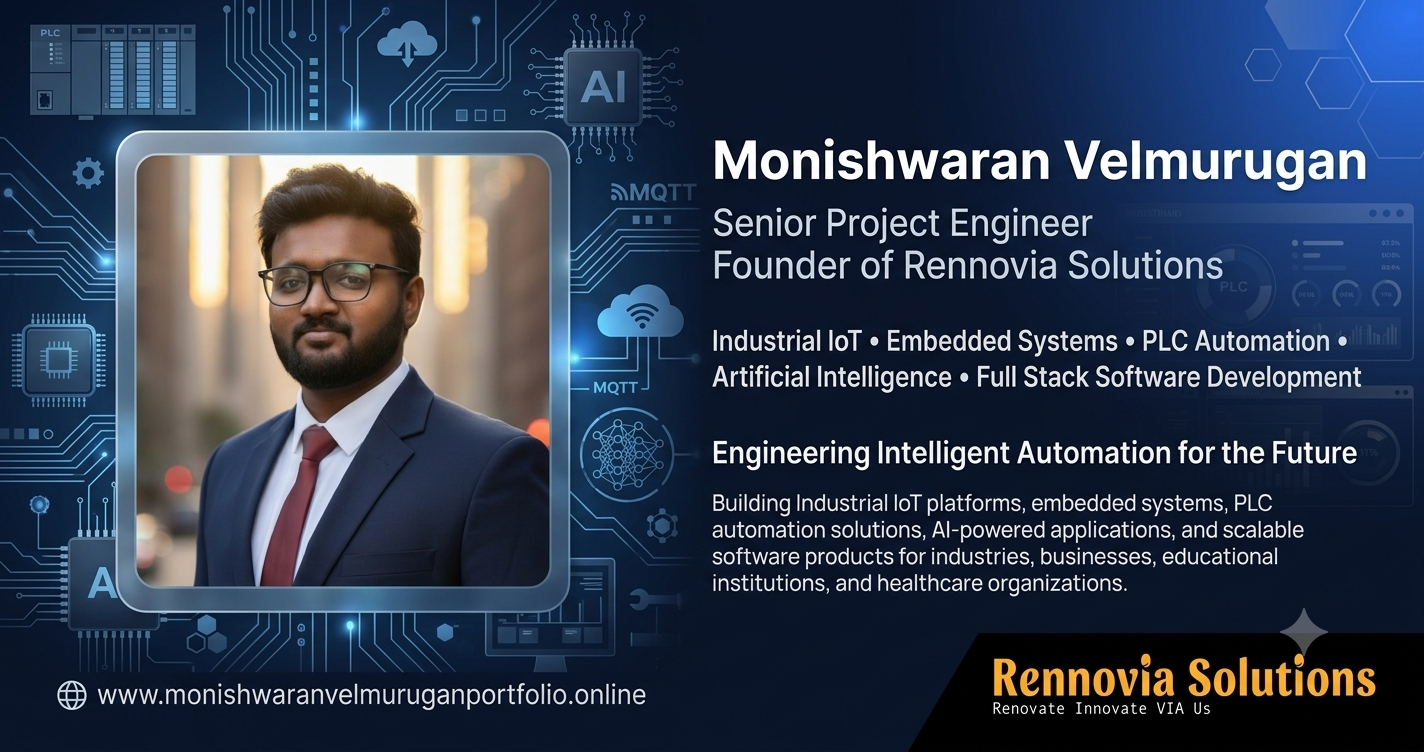
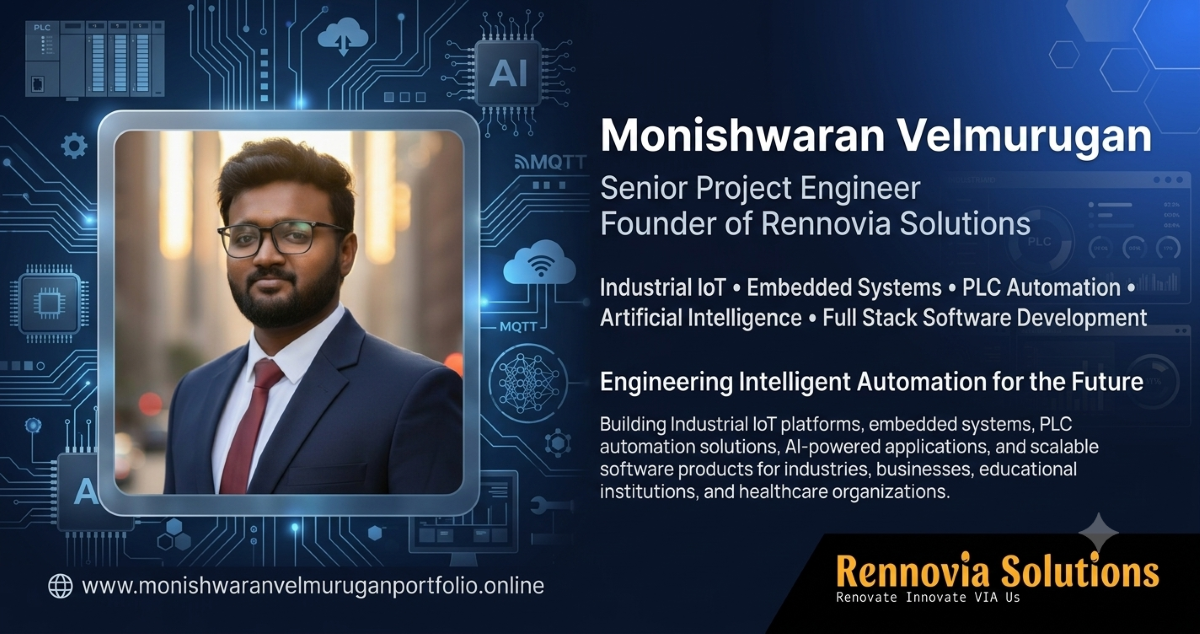
Updated SEO and Open Graph tags

diff --git a/src/components/Seo/Seo.jsx b/src/components/Seo/Seo.jsx
@@ -44,7 +44,7 @@ export default function Seo() {
       <meta property="og:image:secure_url" content={seo.ogImage} />
       <meta property="og:image:type" content="image/png" />
       <meta property="og:image:width" content="1200" />
-      <meta property="og:image:height" content="630" />
+      <meta property="og:image:height" content="634" />
       <meta property="og:site_name" content="Monishwaran Velmurugan Portfolio" />
 
       {/* Twitter */}

diff --git a/index.html b/index.html
@@ -41,7 +41,7 @@
     />
     <meta property="og:image:type" content="image/png" />
     <meta property="og:image:width" content="1200" />
-    <meta property="og:image:height" content="630" />
+    <meta property="og:image:height" content="634" />
 
     <!-- Twitter -->
     <meta name="twitter:card" content="summary_large_image" />
